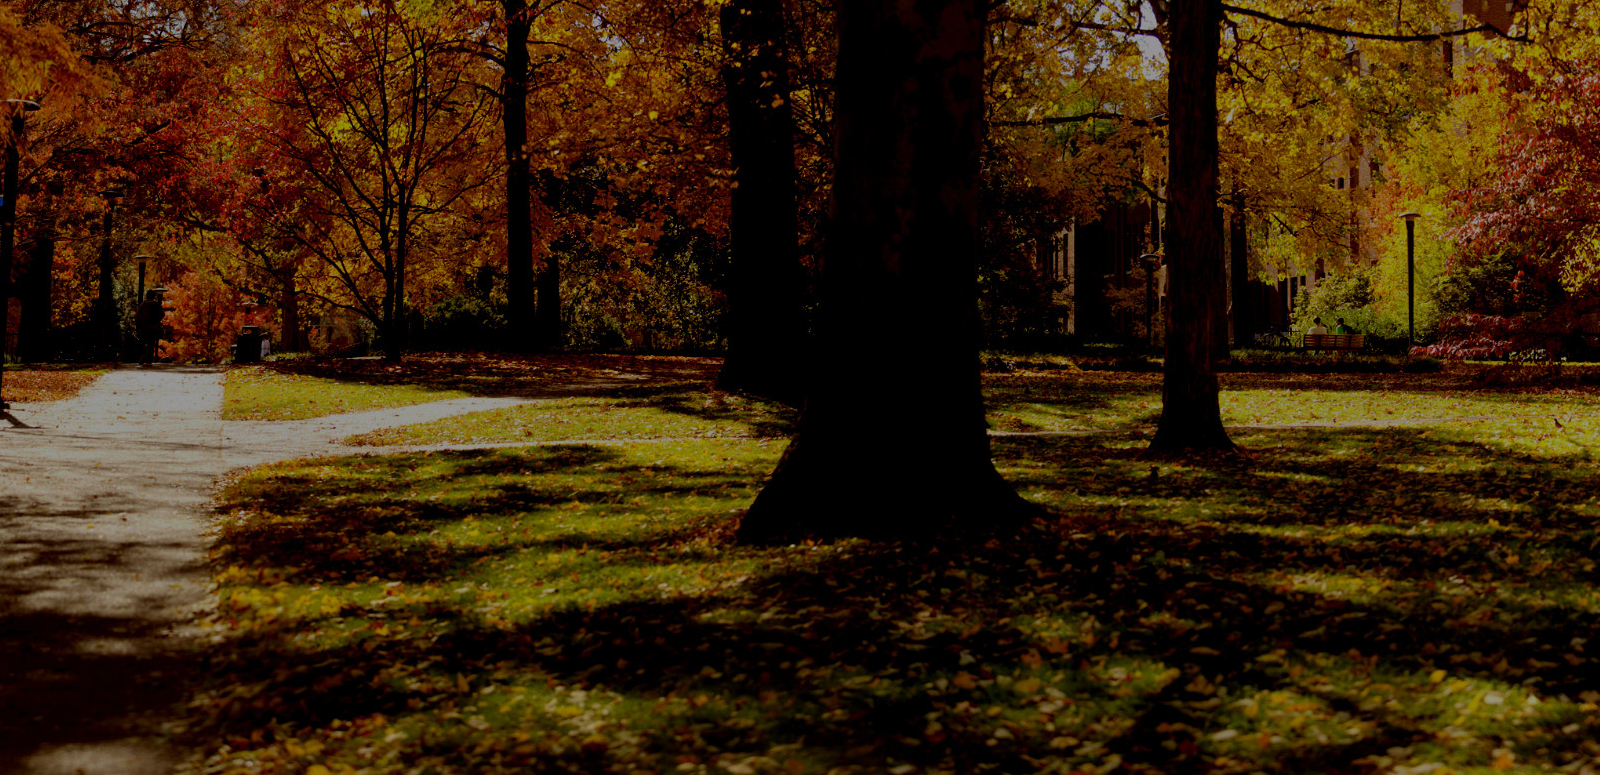
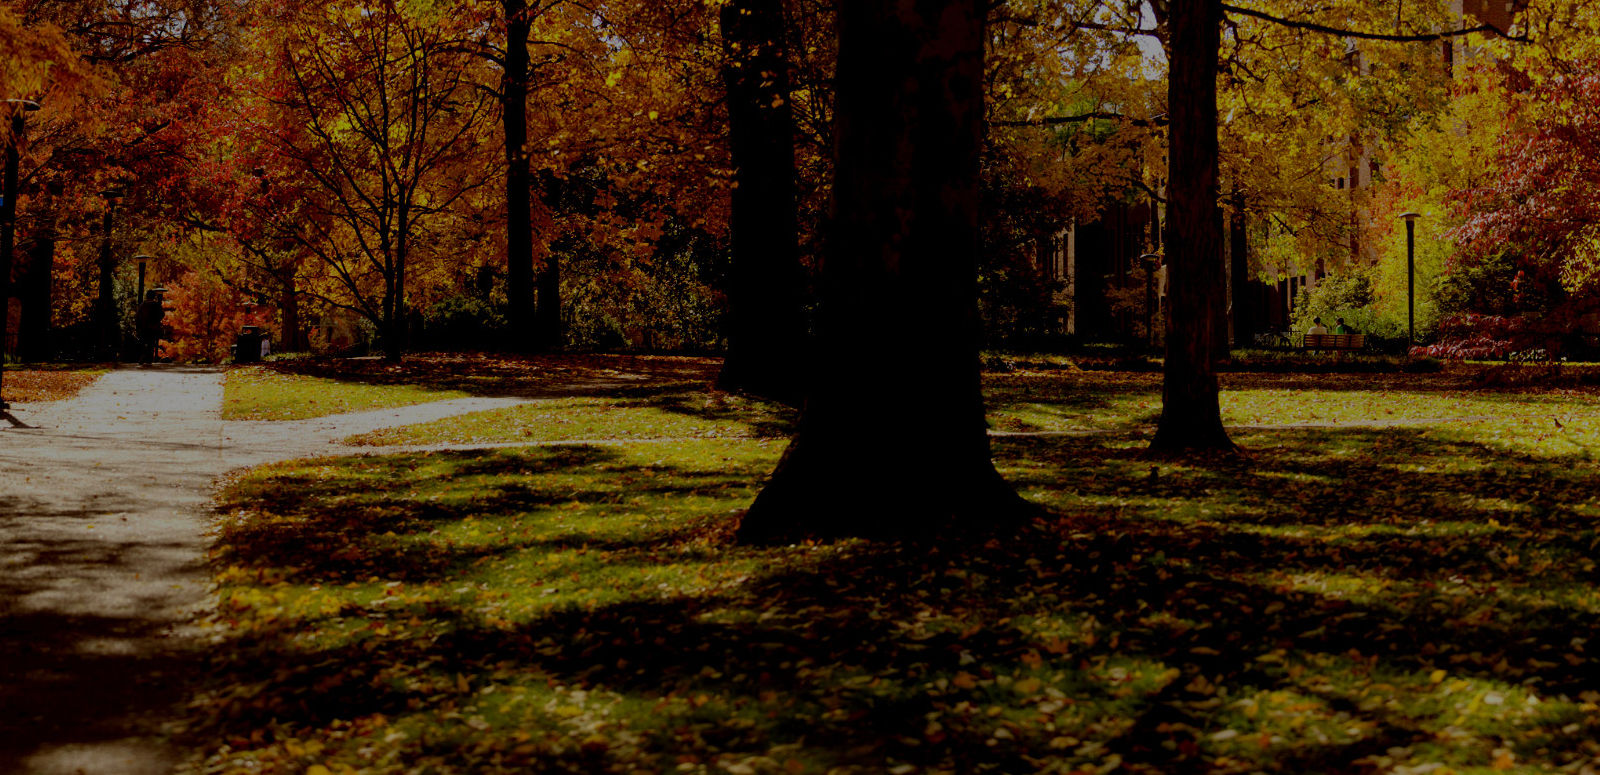
Compressed more images

diff --git a/index.html b/index.html
@@ -31,6 +31,8 @@
     <meta property="og:image:width" content="296" />
     <meta property="og:image:height" content="134" />
 
+
+
     <!-- Google Analytics -->
 <script>
 (function(i,s,o,g,r,a,m){i['GoogleAnalyticsObject']=r;i[r]=i[r]||function(){
@@ -201,7 +203,7 @@ ga('send', 'pageview');
 			</div>
 			<div class="container">
 	            <div class="align-center pad-bot40">
-	                <blockquote class="bigquote color-white">Manager for P&G working at the global headquarters for the consumer goods giant. I get to help make products used by 5 billion people around the world.</blockquote>
+	                <blockquote class="bigquote color-white">Manager for P&G working at the consumer giant's global headquarters. I get to help make products used by 5 billion people around the world.</blockquote>
 	            </div>
 			</div>	
 		</section>

diff --git a/css/style.css b/css/style.css
@@ -1291,6 +1291,10 @@ Media queries
 	.navbar .navbar-collapse ul.nav li {
 		border-bottom: 1px solid #666;
 	}
+
+	section.featured {
+		padding-top: 140px;
+	}
 	
 	.team-member,.col-lg-4 {
 		margin-bottom: 30px;

diff --git a/contact/config.php b/contact/config.php
@@ -1,4 +1,4 @@
 <?php
 // To
-define("WEBMASTER_EMAIL", 'james.z.boyette@vanderbilt.edu');
+define("WEBMASTER_EMAIL", 'jzboyette@gmail.com');
 ?>
